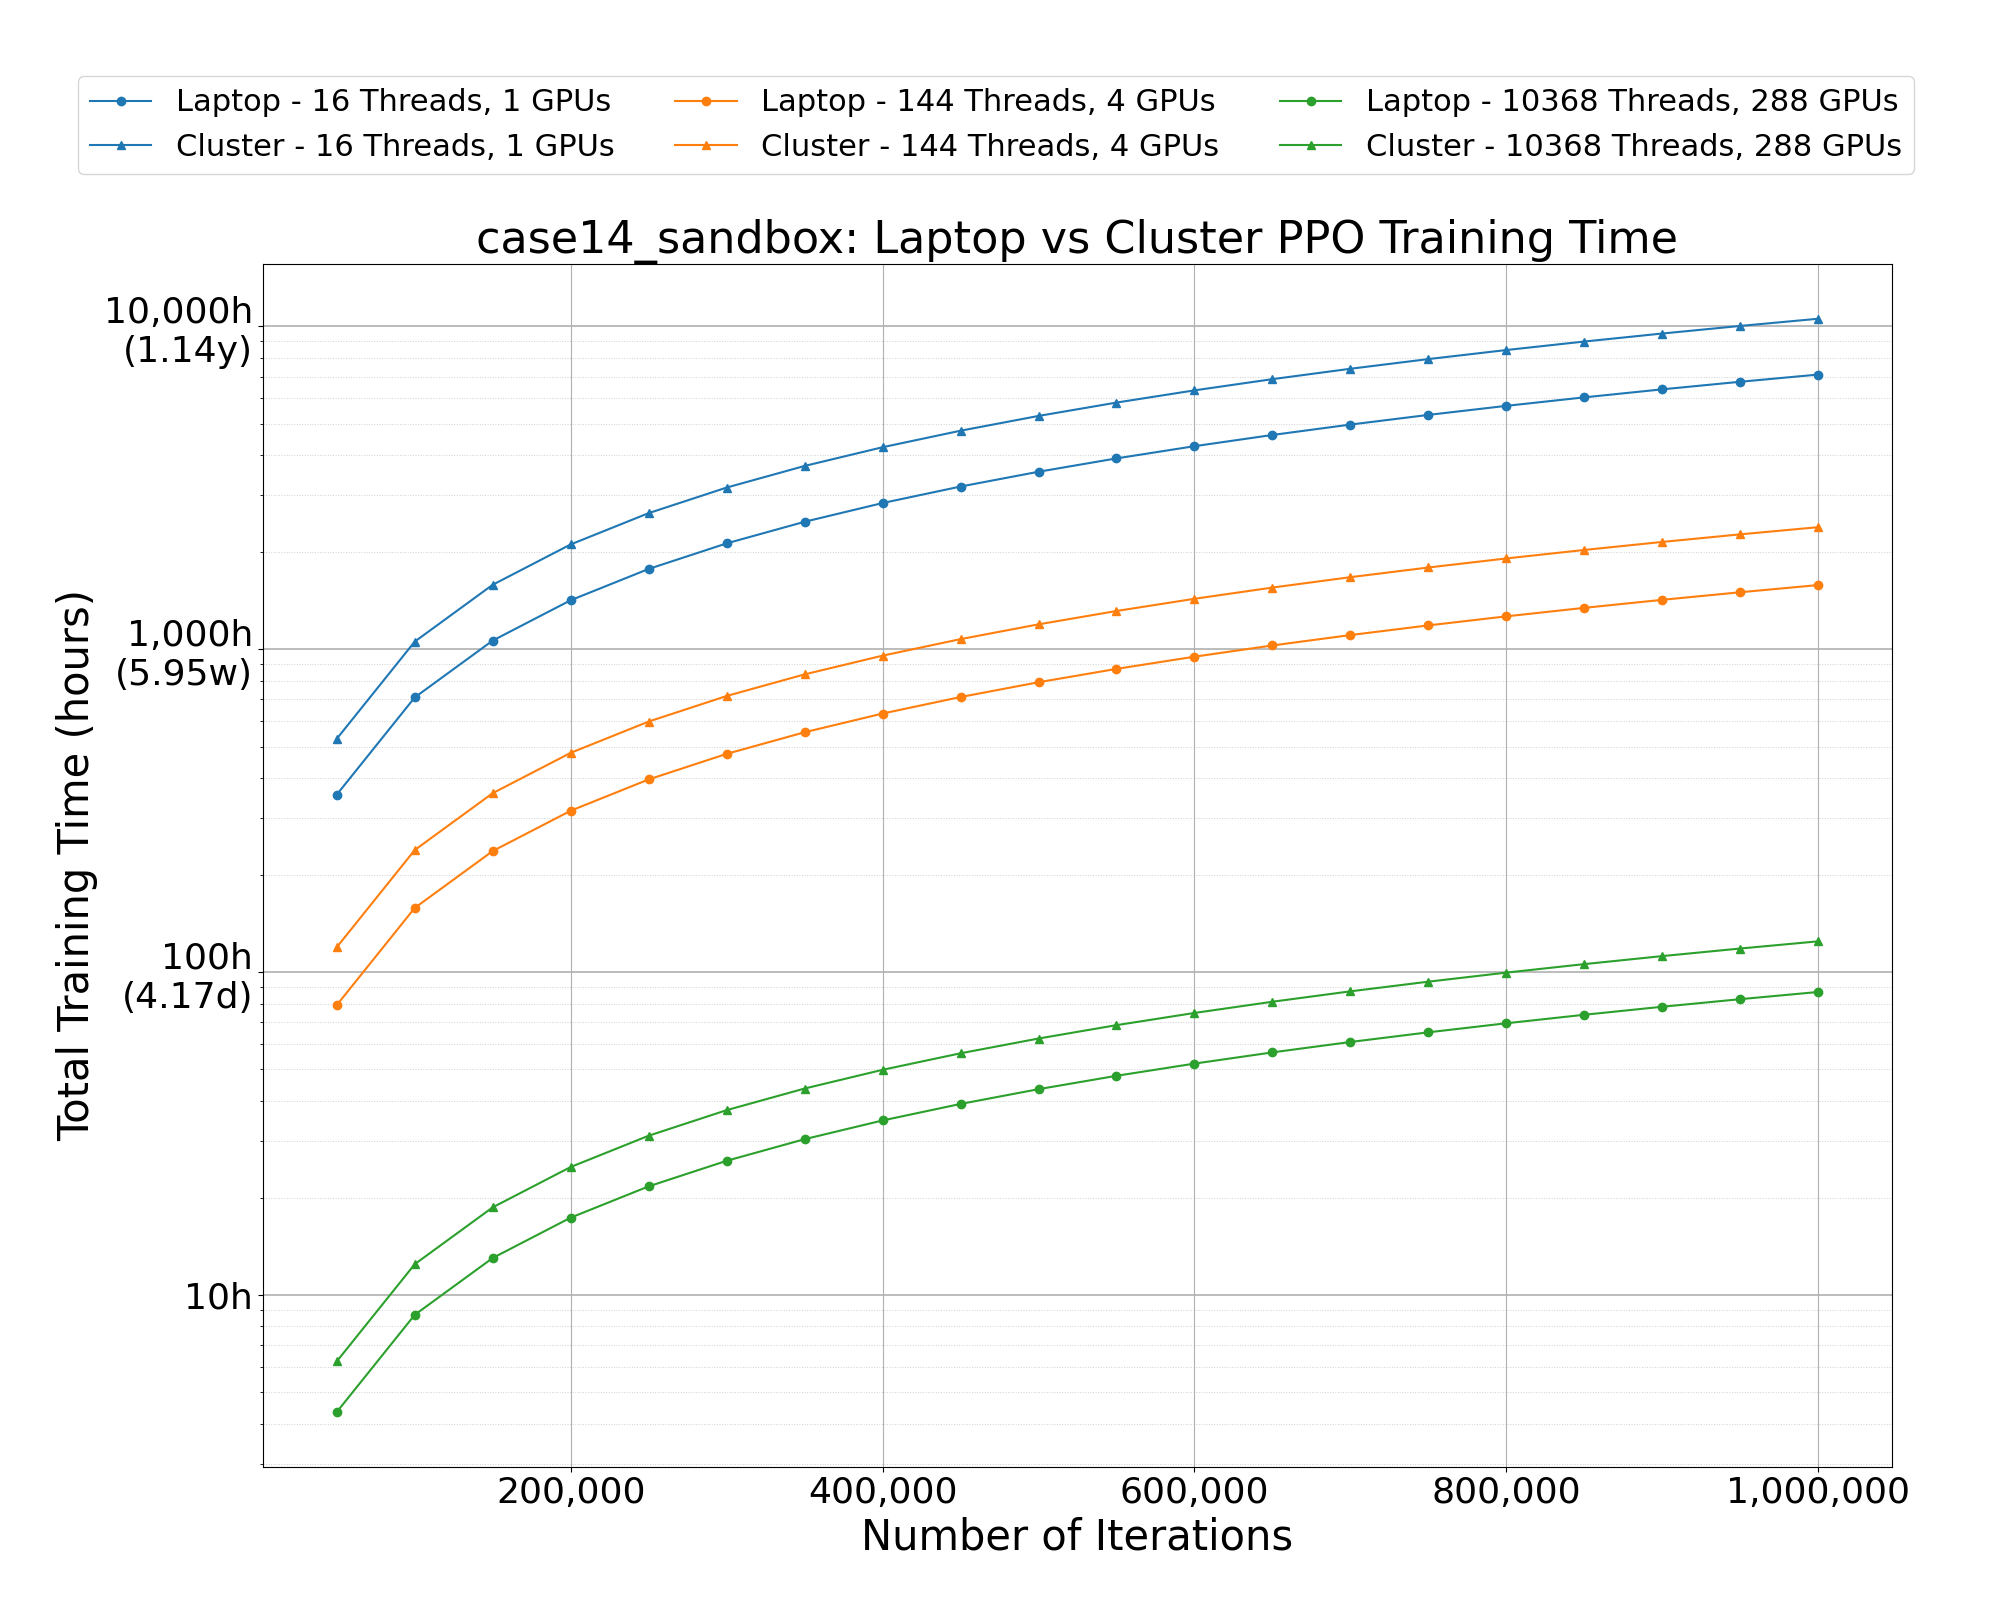
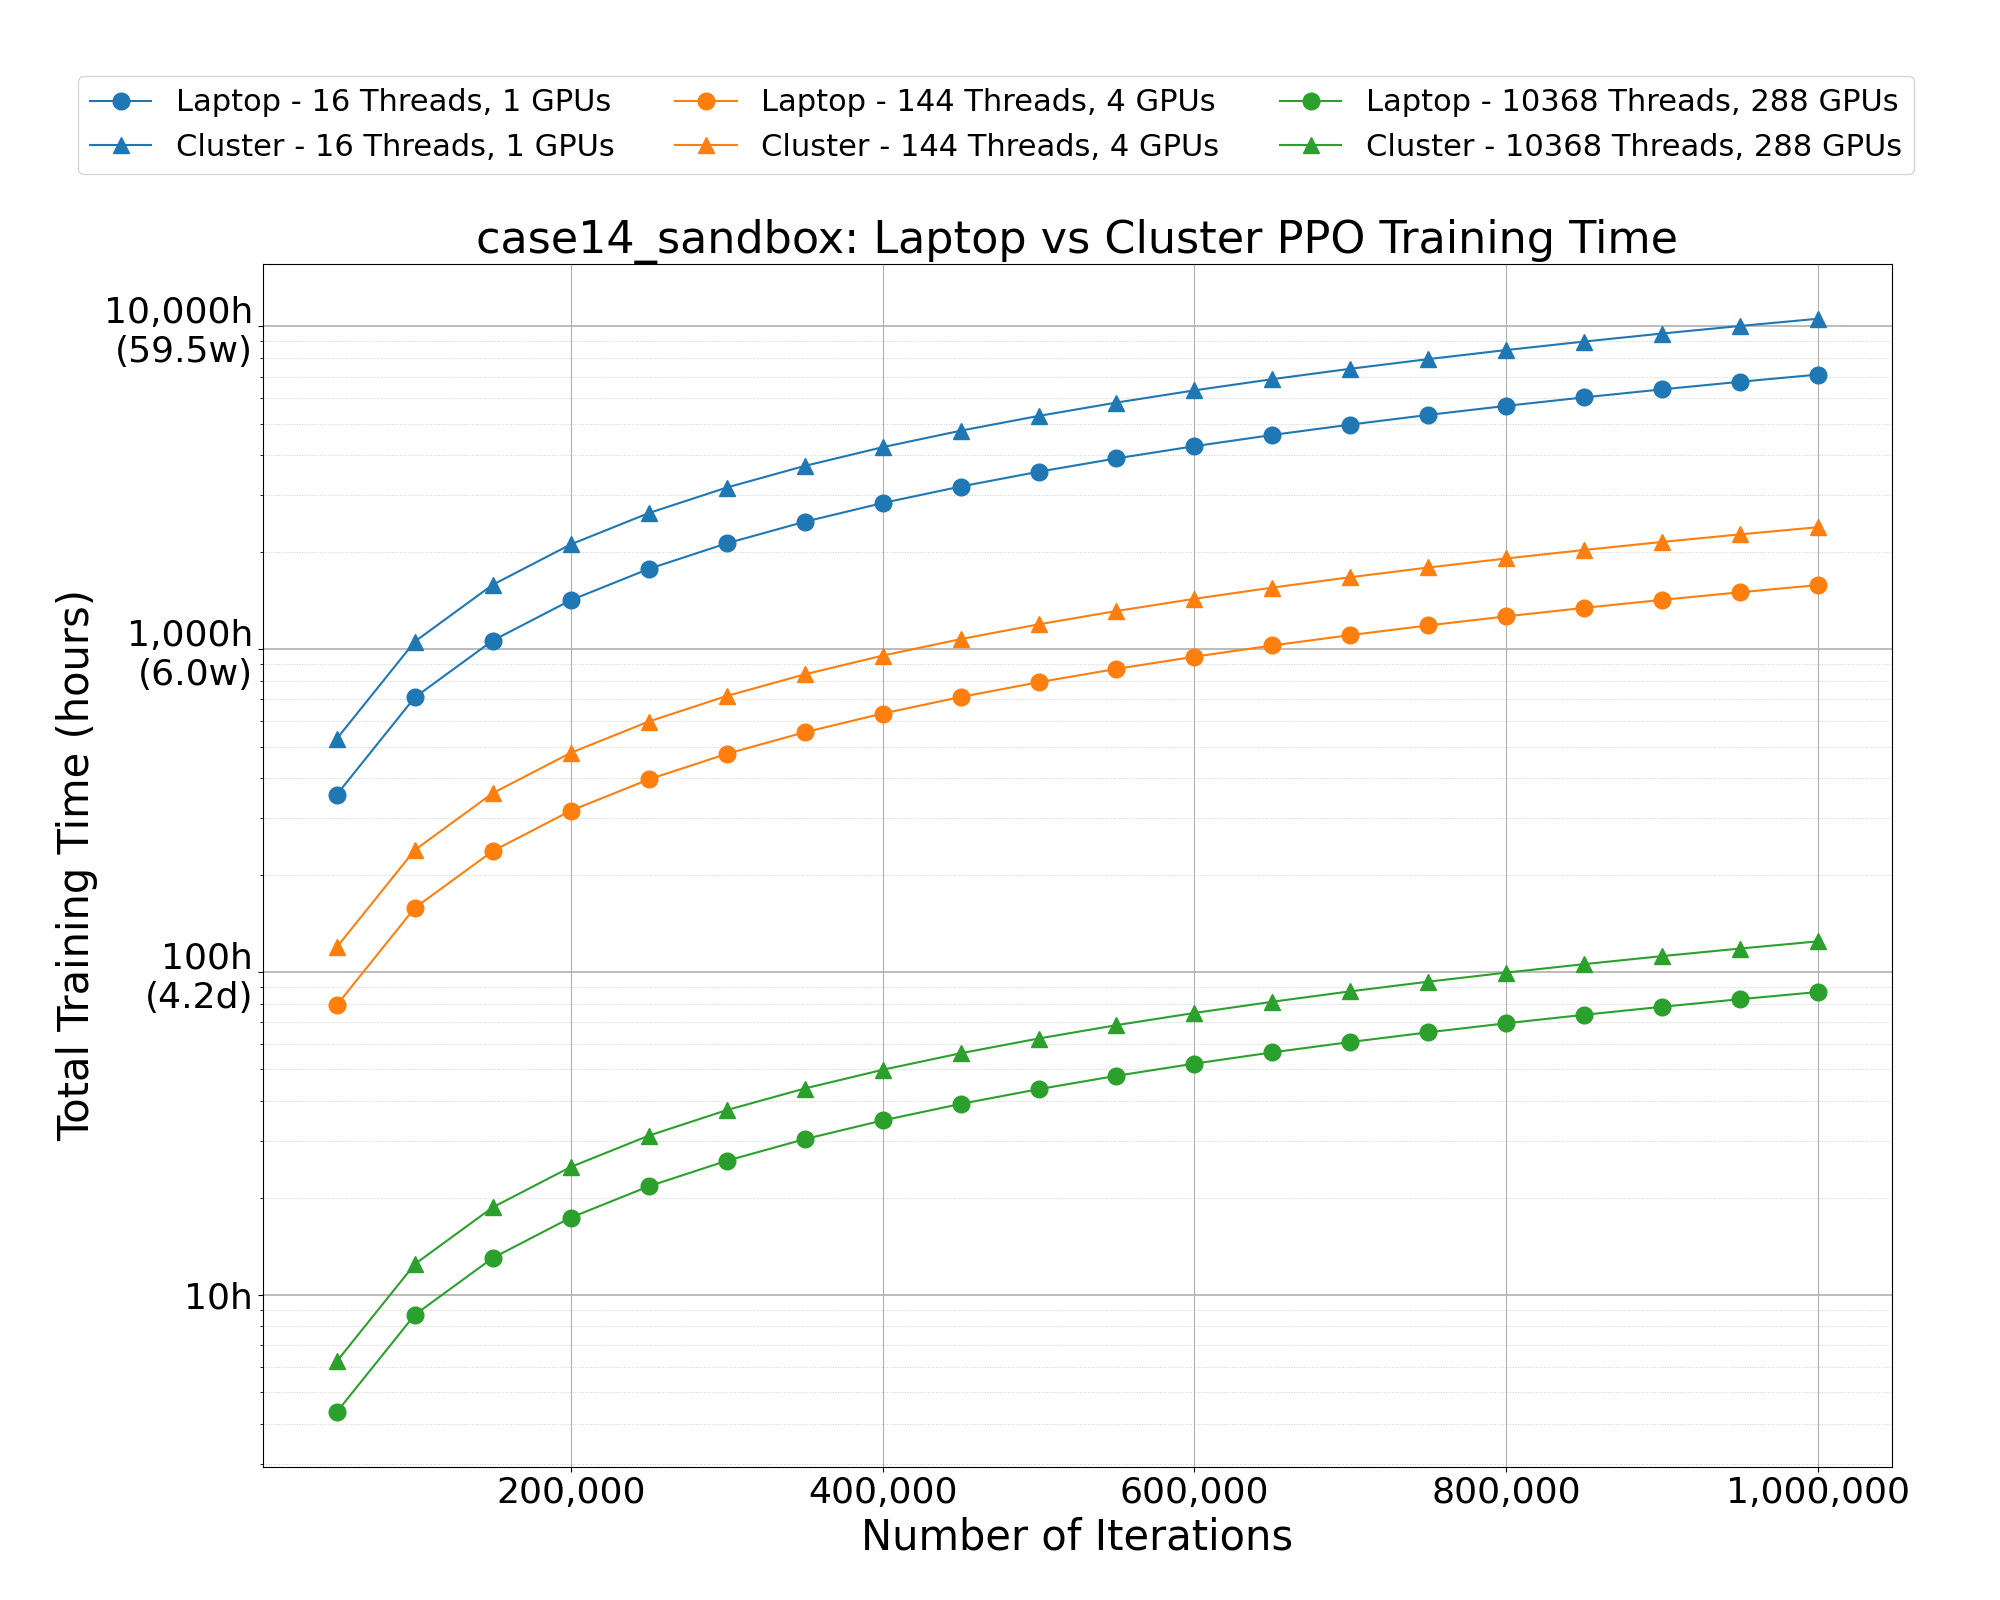
Small plot changes

Changed region(s): [[0.062, 0.1875, 0.124, 0.25], [0.062, 0.4062, 0.124, 0.4375], [0.062, 0.5938, 0.093, 0.625]]

diff --git a/src/plots.py b/src/plots.py
@@ -37,7 +37,7 @@ def set_log_yscale_and_labels(ax, env):
         f"{int(yticks[0]):,}h\n({yticks[0]/24:.1f}d)",
         f"{int(yticks[1]):,}h\n({yticks[1]/168:.1f}w)",
         f"{int(yticks[2]):,}h\n({yticks[2]/168:.1f}w)",
-        f"{int(yticks[3]):,}h\n({yticks[3]/8760:.2f}y)",
+        f"{int(yticks[3]):,}h\n({yticks[3]/8760:.1f}y)",
     ]
     ax.set_yticks(yticks)
     ax.set_yticklabels(ylabels)
@@ -96,6 +96,7 @@ def plot_mask_model_lines(
                 marker=marker,
                 color=thread_to_color[n_threads],
                 label=f"{system_name} - {n_threads} Threads",
+                markersize=12,
             )
             lines.append(line)
             labels.append(f"{system_name} - {n_threads} Threads")
@@ -236,6 +237,7 @@ def plot_ppo_lines(
                 marker=marker,
                 color=thread_to_color[n_threads],
                 label=f"{system_name} - {n_threads} Threads, {num_gpus} GPUs",
+                markersize=12,
             )
             lines.append(line)
             labels.append(f"{system_name} - {n_threads} Threads, {num_gpus} GPUs")
@@ -247,9 +249,9 @@ def ppo_set_log_yscale_and_labels(ax):
     yticks = [1e1, 1e2, 1e3, 1e4]
     ylabels = [
         f"{int(yticks[0]):,}h",
-        f"{int(yticks[1]):,}h\n({yticks[1]/24:.2f}d)",
-        f"{int(yticks[2]):,}h\n({yticks[2]/168:.2f}w)",
-        f"{int(yticks[3]):,}h\n({yticks[3]/8760:.2f}y)",
+        f"{int(yticks[1]):,}h\n({yticks[1]/24:.1f}d)",
+        f"{int(yticks[2]):,}h\n({yticks[2]/168:.1f}w)",
+        f"{int(yticks[3]):,}h\n({yticks[3]/168:.1f}w)",
     ]
     ax.set_yticks(yticks)
     ax.set_yticklabels(ylabels)
